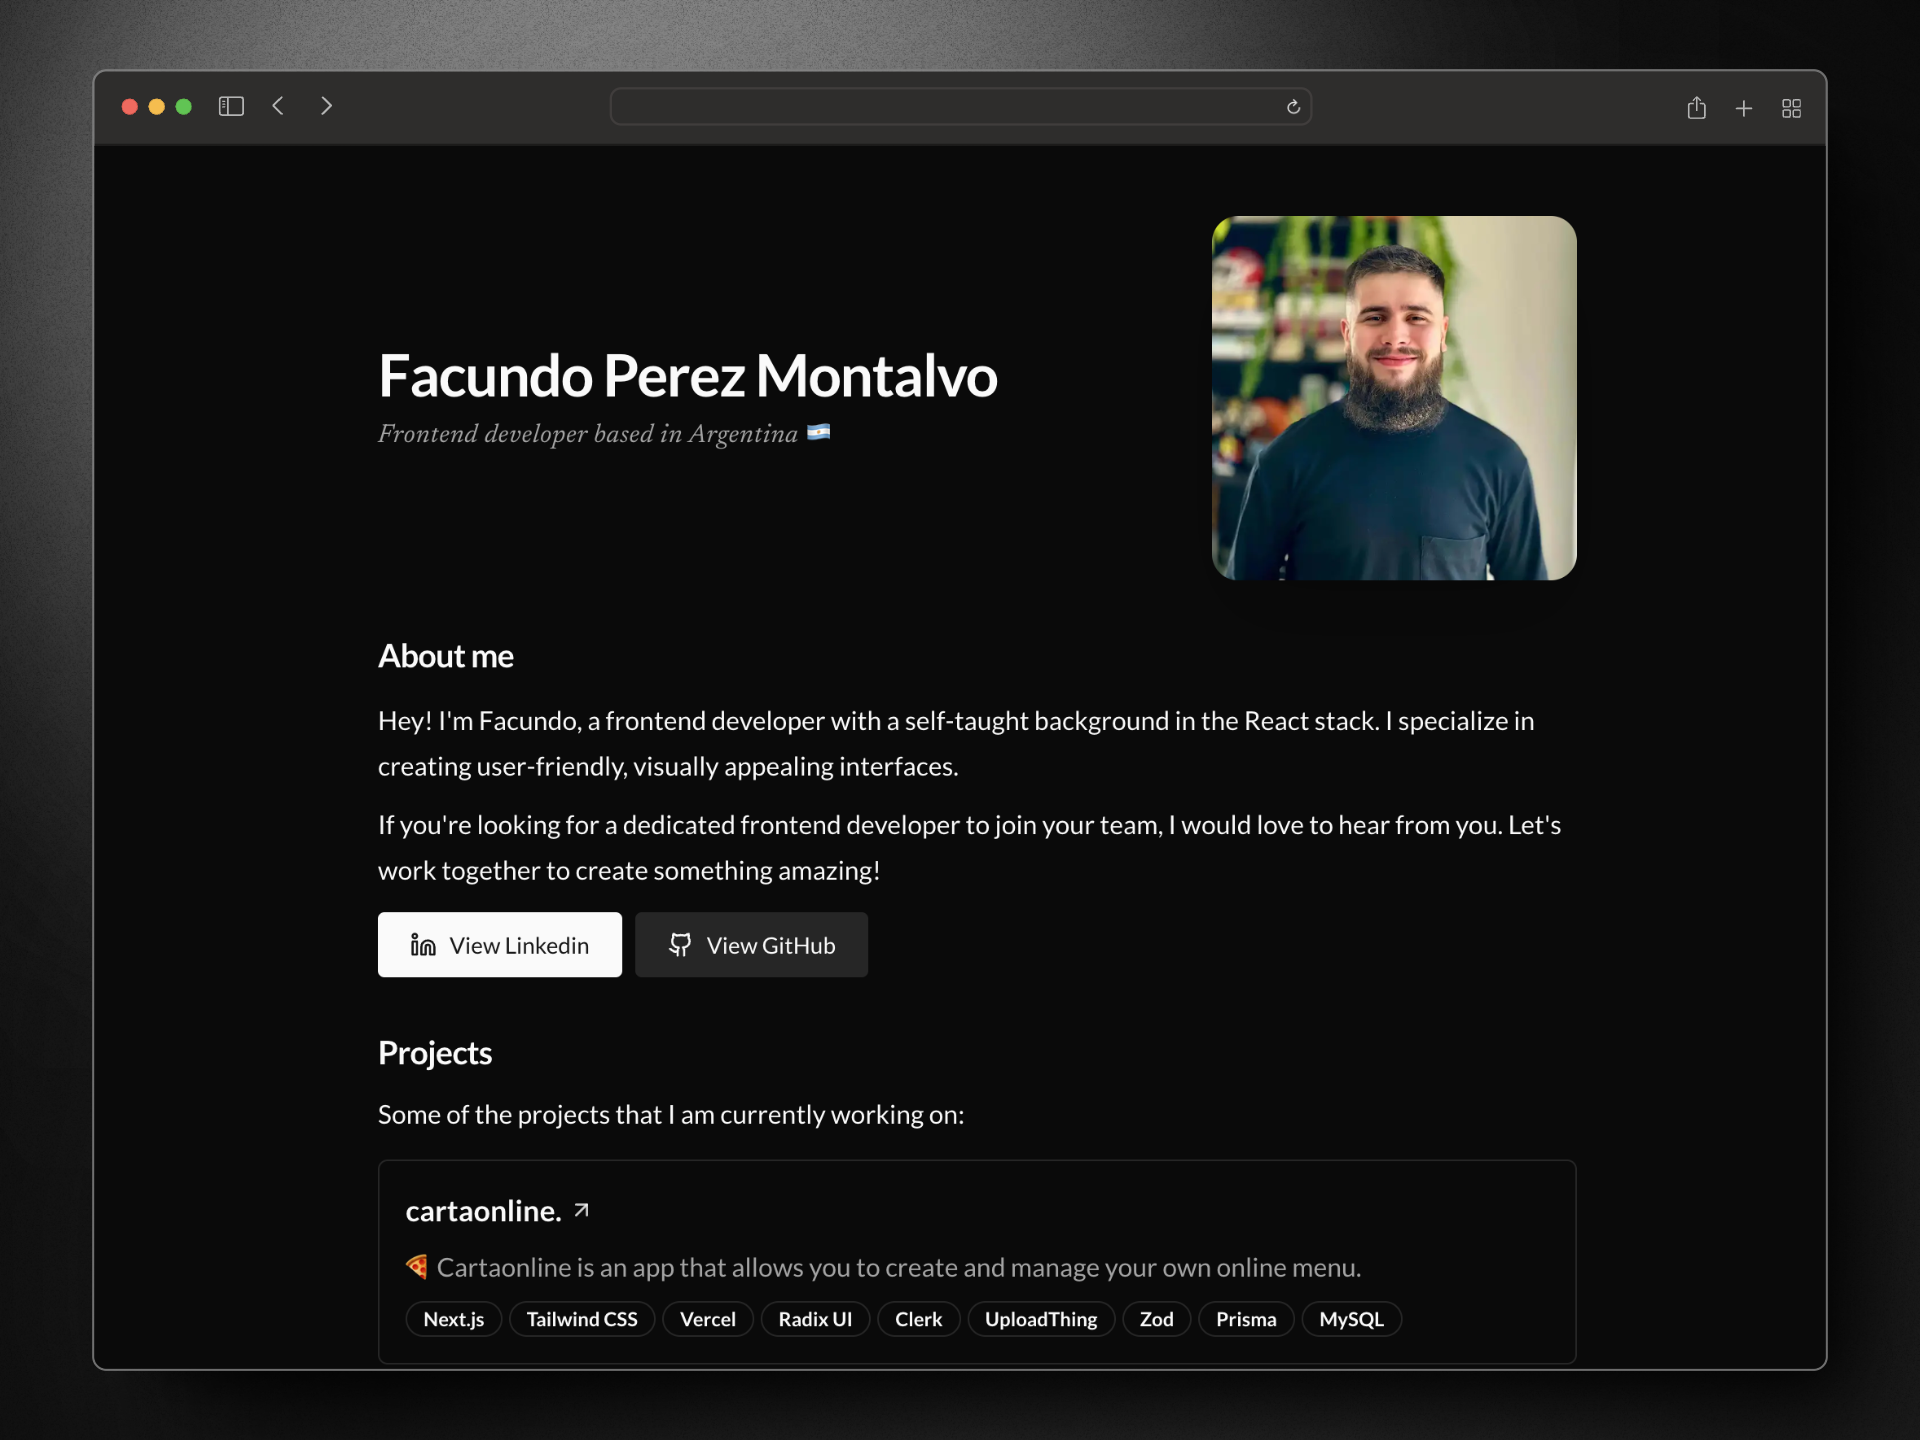
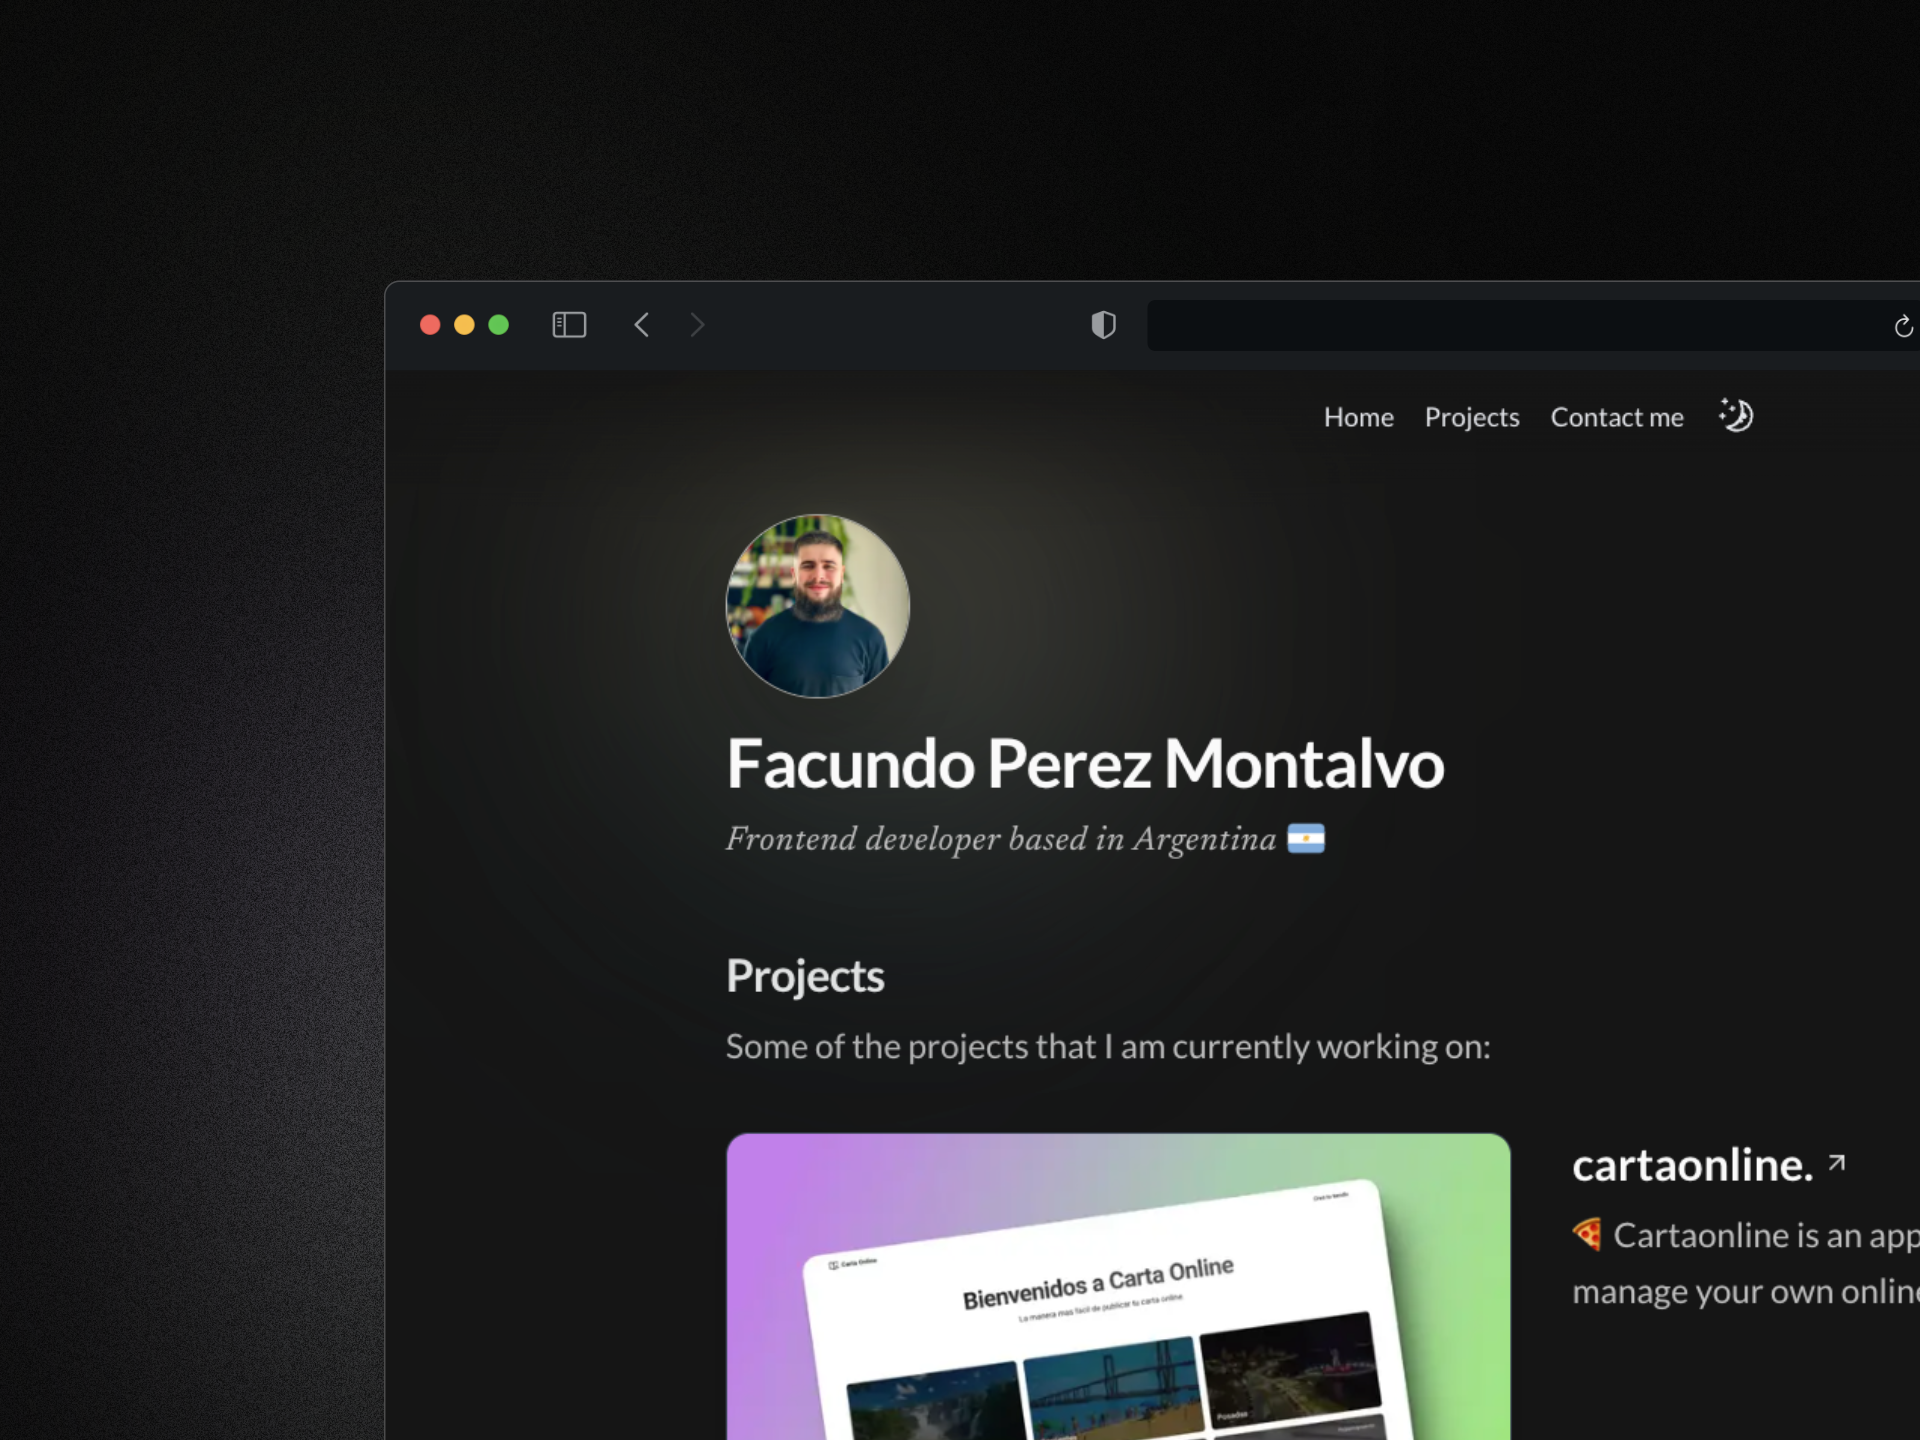
feat: update image on README.md

diff --git a/README.md b/README.md
@@ -32,7 +32,7 @@
 - [x] Dark/Light theme
 - [x] Improve contact form validation and error handling
 - [x] Add a toast message when sending the email
-- [ ] Separate works in new page
+- [x] Separate works in new page
 - [ ] Add a new page for the blog
 
 ## Author
